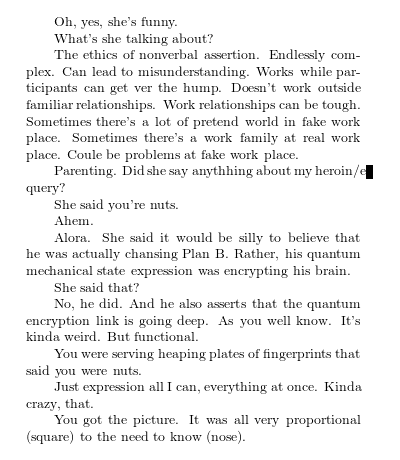
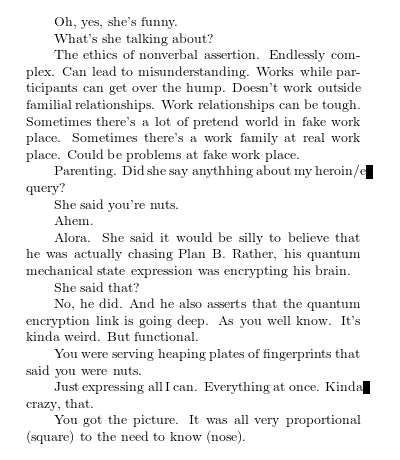
sixteenth

diff --git a/journal-20160824-0.tex b/journal-20160824-0.tex
@@ -5,7 +5,7 @@ Oh, yes, she's funny.
 What's she talking about?
 
 The ethics of nonverbal assertion.  Endlessly complex.  Can lead to
-misunderstanding.  Works while participants can get ver the hump.
+misunderstanding.  Works while participants can get over the hump.
 Doesn't work outside familial relationships.  Work relationships can
 be tough.  Sometimes there's a lot of pretend world in fake work
 place.  Sometimes there's a work family at real work place.  Could be
@@ -18,7 +18,7 @@ She said you're nuts.
 Ahem.
 
 Alora.  She said it would be silly to believe that he was actually
-chansing Plan B.  Rather, his quantum mechanical state expression was
+chasing Plan B.  Rather, his quantum mechanical state expression was
 encrypting his brain.
 
 She said that?
@@ -29,7 +29,7 @@ going deep.  As you well know.  It's kinda weird.  But functional.
 You were serving heaping plates of fingerprints that said you were
 nuts.  
 
-Just expression all I can, everything at once.  Kinda crazy, that.
+Just expressing all I can.  Everything at once.  Kinda crazy, that.
 
 You got the picture.  It was all very proportional (square) to the
 need to know (nose).
